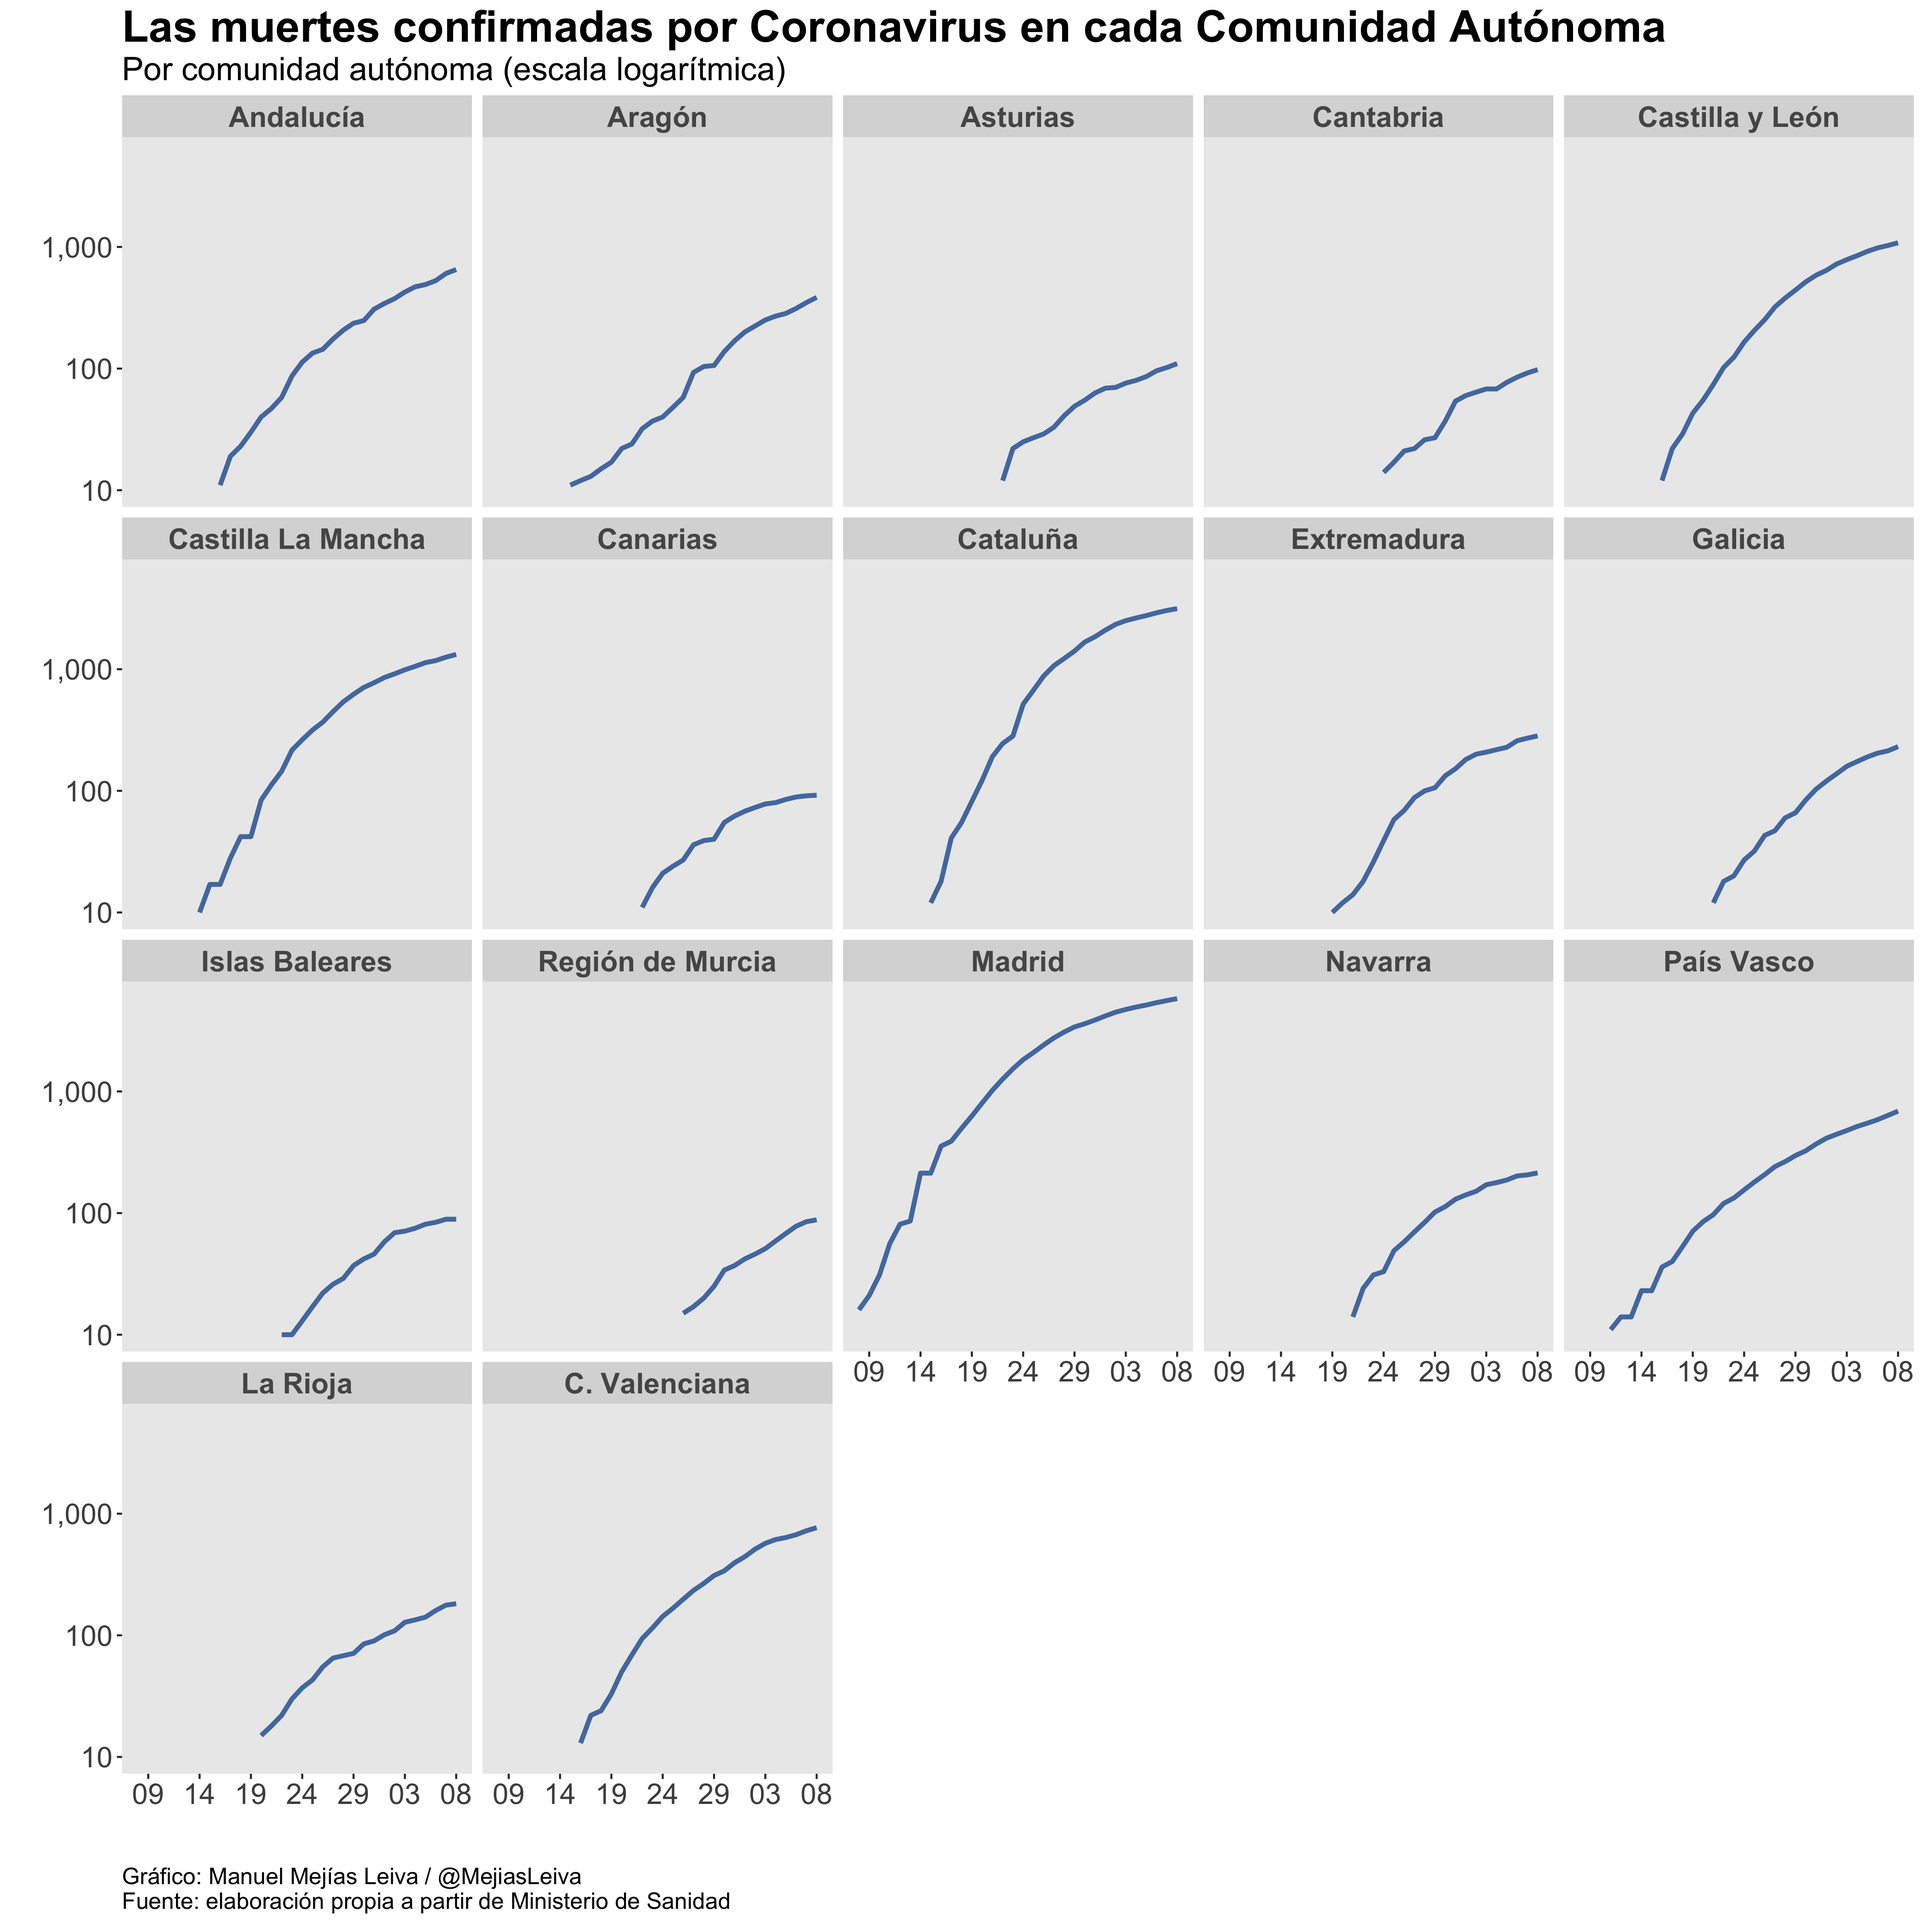
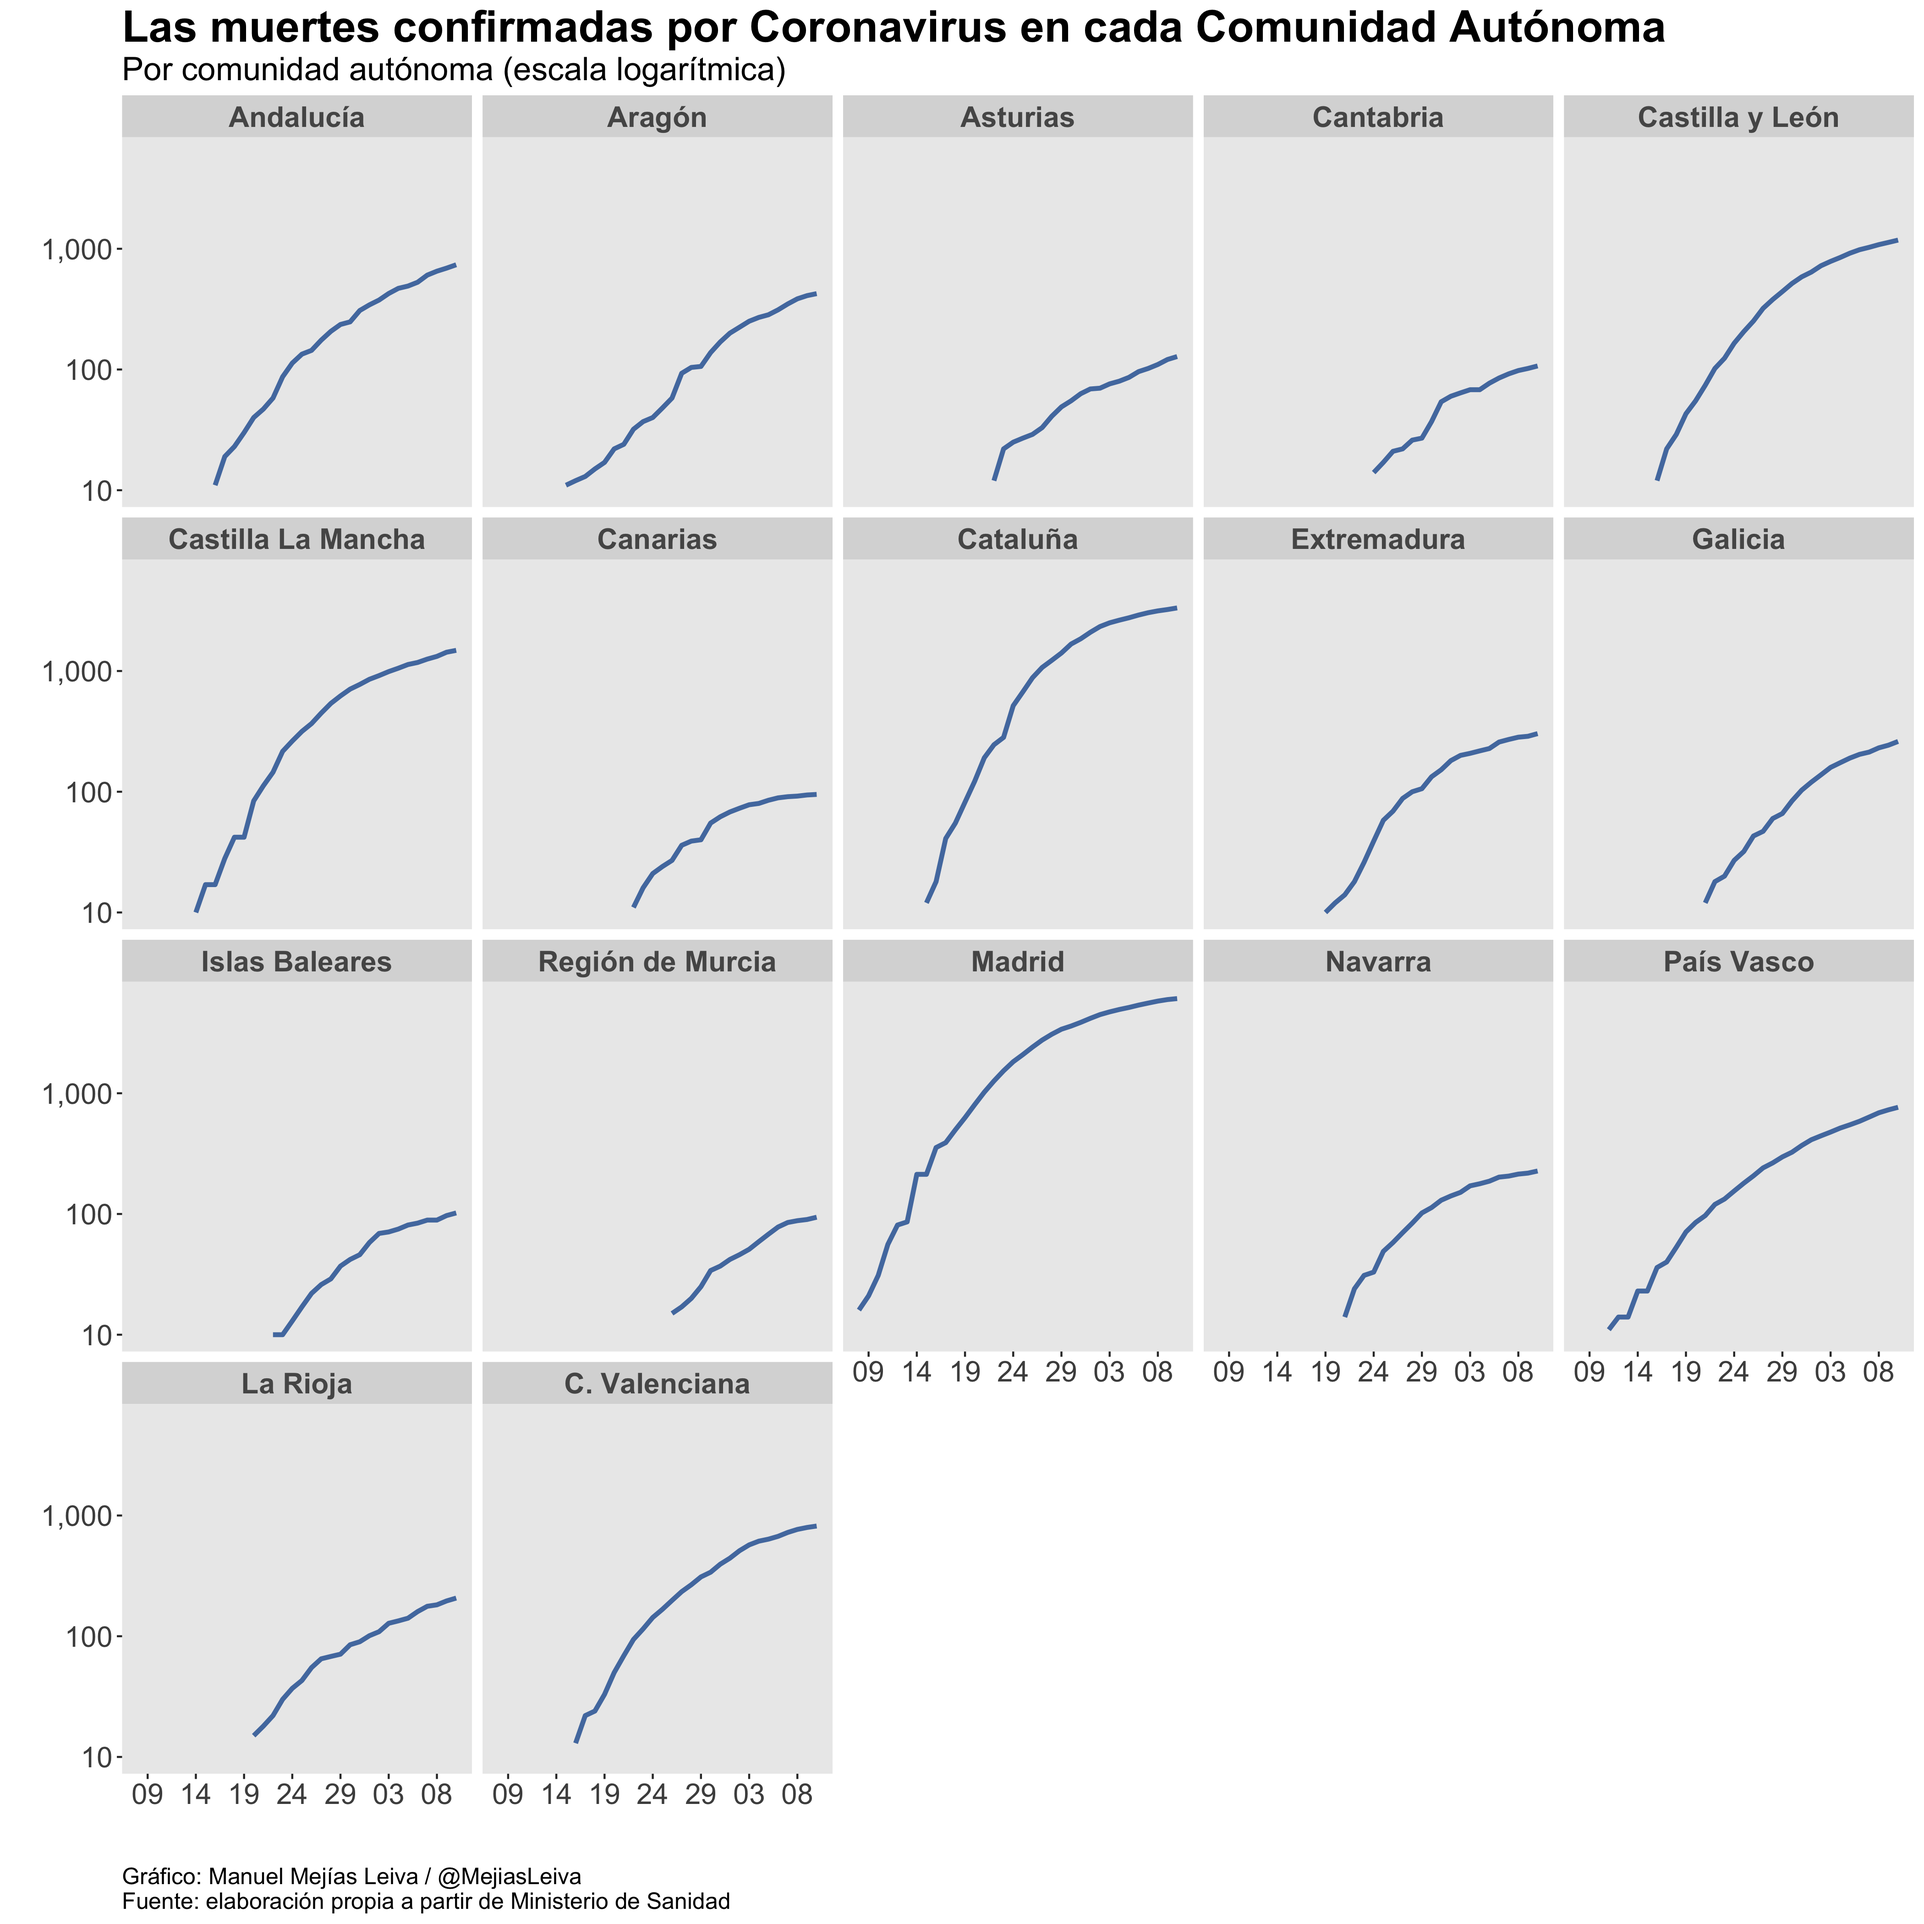
añadido nuevo artículo

diff --git a/_site/covid-19/Covid19.html b/_site/covid-19/Covid19.html
@@ -54,14 +54,14 @@
 <meta property="og:title" content="Evolución diaria de la pandemia de COVID-19 en España y en el mundo" />
 <meta name="author" content="Manuel Mejías Leiva" />
 <meta property="og:locale" content="en_US" />
-<meta name="description" content="Datos actualizados a 10/04/2020" />
-<meta property="og:description" content="Datos actualizados a 10/04/2020" />
+<meta name="description" content="Datos actualizados a 11/04/2020" />
+<meta property="og:description" content="Datos actualizados a 11/04/2020" />
 <meta property="og:site_name" content="Manuel Mejías" />
 <meta property="og:image" content="/img_covid/covid19.png" />
 <meta property="og:type" content="article" />
 <meta property="article:published_time" content="2020-04-07T00:00:00+02:00" />
 <script type="application/ld+json">
-{"url":"/covid-19/Covid19.html","author":{"@type":"Person","name":"Manuel Mejías Leiva"},"headline":"Evolución diaria de la pandemia de COVID-19 en España y en el mundo","datePublished":"2020-04-07T00:00:00+02:00","dateModified":"2020-04-07T00:00:00+02:00","description":"Datos actualizados a 10/04/2020","image":"/img_covid/covid19.png","mainEntityOfPage":{"@type":"WebPage","@id":"/covid-19/Covid19.html"},"@type":"BlogPosting","@context":"https://schema.org"}</script>
+{"image":"/img_covid/covid19.png","mainEntityOfPage":{"@type":"WebPage","@id":"/covid-19/Covid19.html"},"url":"/covid-19/Covid19.html","author":{"@type":"Person","name":"Manuel Mejías Leiva"},"description":"Datos actualizados a 11/04/2020","dateModified":"2020-04-07T00:00:00+02:00","datePublished":"2020-04-07T00:00:00+02:00","headline":"Evolución diaria de la pandemia de COVID-19 en España y en el mundo","@type":"BlogPosting","@context":"https://schema.org"}</script>
 <!-- End Jekyll SEO tag -->
 
 
@@ -127,7 +127,7 @@
 
 
 
-<p><strong><em>Datos actualizados a 10/04/2020</em></strong></p>
+<p><strong><em>Datos actualizados a 11/04/2020</em></strong></p>
 
 <ol>
   <li><a href="#1"><strong>Evolución diaria de la epidemia en España.</strong></a></li>
@@ -137,7 +137,6 @@
   <li><a href="#6"><strong>Número reproductivo (R).</strong></a></li>
   <li><a href="#7"><strong>Evolución del número de nuevos casos y fallecimientos por países.</strong></a></li>
   <li><a href="#8"><strong>Número de test Covid-19 por millón de habitantes.</strong></a></li>
-  <li><a href="#9"><strong>¿El virus no entiende de clases sociales?.</strong></a></li>
 </ol>
 
 <p align="justify">España está atravesando uno de los peores brotes de Coronavirus en el mundo. En este post se presentan datos relativos a la evolución de la pandemia tanto a nivel nacional, autonómico e internacional para tratar de clarificar algunos aspectos del ritmo de la pandemia. Los resultados a nivel nacional y autonómico se obtienen a partir de la información diaria que ofrece el <a target="_blank" href="https://covid19.isciii.es/">Ministerio de Sanidad, Consumo y Bienestar Social</a>. Para el análisis internacional, se parte de los datos que ofrece la <a target="_blank" href="https://coronavirus.jhu.edu/map.html">Johns Hopkins University</a>.</p>
@@ -163,12 +162,12 @@
             </div>
             <div class="tab-content" id="myTabContent">
             <div class="tab-pane fade show active p-3" id="one" role="tabpanel" aria-labelledby="one-tab">
-                <iframe title="Evoluci&oacute;n del n&uacute;mero de fallecidos  en Espa&ntilde;a" aria-label="Interactive line chart" id="datawrapper-chart-2DRIB" src="//datawrapper.dwcdn.net/2DRIB/9/" scrolling="no" frameborder="0" style="width: 0; min-width: 100% !important; border: none;" height="442"></iframe><script type="text/javascript">!function(){"use strict";window.addEventListener("message",function(a){if(void 0!==a.data["datawrapper-height"])for(var e in a.data["datawrapper-height"]){var t=document.getElementById("datawrapper-chart-"+e)||document.querySelector("iframe[src*='"+e+"']");t&&(t.style.height=a.data["datawrapper-height"][e]+"px")}})}();
-</script>  
+                <iframe title="Evoluci&oacute;n del n&uacute;mero de fallecidos  en Espa&ntilde;a" aria-label="Interactive line chart" id="datawrapper-chart-2DRIB" src="//datawrapper.dwcdn.net/2DRIB/10/" scrolling="no" frameborder="0" style="width: 0; min-width: 100% !important; border: none;" height="442"></iframe><script type="text/javascript">!function(){"use strict";window.addEventListener("message",function(a){if(void 0!==a.data["datawrapper-height"])for(var e in a.data["datawrapper-height"]){var t=document.getElementById("datawrapper-chart-"+e)||document.querySelector("iframe[src*='"+e+"']");t&&(t.style.height=a.data["datawrapper-height"][e]+"px")}})}();
+</script>
             </div>
             <div class="tab-pane fade p-3" id="two" role="tabpanel" aria-labelledby="two-tab">
-                 <iframe title="Evoluci&oacute;n del n&uacute;mero de casos en Espa&ntilde;a" aria-label="Interactive line chart" id="datawrapper-chart-JSCW4" src="//datawrapper.dwcdn.net/JSCW4/6/" scrolling="no" frameborder="0" style="width: 0; min-width: 100% !important; border: none;" height="400"></iframe><script type="text/javascript">!function(){"use strict";window.addEventListener("message",function(a){if(void 0!==a.data["datawrapper-height"])for(var e in a.data["datawrapper-height"]){var t=document.getElementById("datawrapper-chart-"+e)||document.querySelector("iframe[src*='"+e+"']");t&&(t.style.height=a.data["datawrapper-height"][e]+"px")}})}();
-</script>   
+                 <iframe title="Evoluci&oacute;n del n&uacute;mero de casos en Espa&ntilde;a" aria-label="Interactive line chart" id="datawrapper-chart-JSCW4" src="//datawrapper.dwcdn.net/JSCW4/7/" scrolling="no" frameborder="0" style="width: 0; min-width: 100% !important; border: none;" height="400"></iframe><script type="text/javascript">!function(){"use strict";window.addEventListener("message",function(a){if(void 0!==a.data["datawrapper-height"])for(var e in a.data["datawrapper-height"]){var t=document.getElementById("datawrapper-chart-"+e)||document.querySelector("iframe[src*='"+e+"']");t&&(t.style.height=a.data["datawrapper-height"][e]+"px")}})}();
+</script>
             </div>
             </div>
         </div>
@@ -332,14 +331,6 @@
 
 <p><img src="/assets/img/img_covid/p18.png" alt="Test por millón hab" /></p>
 
-<h3 id="el-virus-no-entiende-de-clases-sociales"><a name="8"></a>¿El virus no entiende de clases sociales?</h3>
-
-<p align="justify">Por último, presento datos sobre casos x100.000 habitantes por distrito de la ciudad de <a target="_blank" href="https://www.comunidad.madrid/servicios/salud 2019-nuevo-coronavirus">Madrid</a> comparado con algunas variables sociodemográficas. En primer lugar, los datos señalan que a mayor vulnerabilidad más casos notificados de Covid-19. En segundo lugar, parece observarse que a mayor porcentaje de población con estudios superiores en el distrito, menor son los casos reportados de Covid-19. En este caso puede jugar un papel fundamental el hecho de que aquellas personas con estudios de grado superior pueden realizar teletrabajo, evitando así una exposición al contagio. En tercer lugar, se encuentra que a mayor proporción de viviendas hacinadas, mayor es el número de casos Covid-19. Y, por último, también parece que a mayor precio del alquiler, menor es el número de casos reportados por Covid-19. </p>
-
-<p><img src="/assets/img/img_covid/p19.png" alt="Desigualdad en salud Madrid" /></p>
-
-<p align="justify">Estos datos son muy preliminares y tienen muchas limitaciones. Aunque son muy útiles porque aportan información sobre las desigualdades sociales en la salud que va a traer la epidemia de Coronavirus en España, y que muy posiblemente van a sufrir las clases sociales más vulnerables. Para concluir, los datos apuntan a que hay que abandonar el discurso de que el virus no entiende de estratos sociales.  </p>
-
 
 
 
@@ -358,7 +349,7 @@
 
   
   
-    lectura de 8 minuto
+    lectura de 7 minuto
   
 
 

diff --git a/_site/index.html b/_site/index.html
@@ -58,7 +58,7 @@
 <meta property="og:description" content="Sociólogo" />
 <meta property="og:site_name" content="Manuel Mejías" />
 <script type="application/ld+json">
-{"url":"/","author":{"@type":"Person","name":"Manuel Mejías Leiva"},"name":"Manuel Mejías","headline":"Home","description":"Sociólogo","@type":"WebSite","@context":"https://schema.org"}</script>
+{"url":"/","name":"Manuel Mejías","author":{"@type":"Person","name":"Manuel Mejías Leiva"},"description":"Sociólogo","headline":"Home","@type":"WebSite","@context":"https://schema.org"}</script>
 <!-- End Jekyll SEO tag -->
 
 
@@ -129,7 +129,7 @@
   </div>
   
   <p>
-    Datos actualizados a 10/04/2020
+    Datos actualizados a 11/04/2020
 
 
   Evolución diaria de la epidemia en España.
@@ -147,7 +147,7 @@
           2020 - <i class="fa fa-clock-o" aria-hidden="true"></i> 
   
   
-    lectura de 5 minuto
+    lectura de 4 minuto
   
 
 

diff --git a/_site/menu/articulos.html b/_site/menu/articulos.html
@@ -58,7 +58,7 @@
 <meta property="og:description" content="Sociólogo" />
 <meta property="og:site_name" content="Manuel Mejías" />
 <script type="application/ld+json">
-{"url":"/menu/articulos.html","author":{"@type":"Person","name":"Manuel Mejías Leiva"},"headline":"Artículos","description":"Sociólogo","@type":"WebPage","@context":"https://schema.org"}</script>
+{"url":"/menu/articulos.html","author":{"@type":"Person","name":"Manuel Mejías Leiva"},"description":"Sociólogo","headline":"Artículos","@type":"WebPage","@context":"https://schema.org"}</script>
 <!-- End Jekyll SEO tag -->
 
 

diff --git a/_site/404.html b/_site/404.html
@@ -58,7 +58,7 @@
 <meta property="og:description" content="Sociólogo" />
 <meta property="og:site_name" content="Manuel Mejías" />
 <script type="application/ld+json">
-{"url":"/404.html","author":{"@type":"Person","name":"Manuel Mejías Leiva"},"headline":"404: Page not found","description":"Sociólogo","@type":"WebPage","@context":"https://schema.org"}</script>
+{"url":"/404.html","author":{"@type":"Person","name":"Manuel Mejías Leiva"},"description":"Sociólogo","headline":"404: Page not found","@type":"WebPage","@context":"https://schema.org"}</script>
 <!-- End Jekyll SEO tag -->
 
 

diff --git a/_site/menu/contacto.html b/_site/menu/contacto.html
@@ -58,7 +58,7 @@
 <meta property="og:description" content="Sociólogo" />
 <meta property="og:site_name" content="Manuel Mejías" />
 <script type="application/ld+json">
-{"url":"/menu/contacto.html","author":{"@type":"Person","name":"Manuel Mejías Leiva"},"headline":"Contacto","description":"Sociólogo","@type":"WebPage","@context":"https://schema.org"}</script>
+{"url":"/menu/contacto.html","author":{"@type":"Person","name":"Manuel Mejías Leiva"},"description":"Sociólogo","headline":"Contacto","@type":"WebPage","@context":"https://schema.org"}</script>
 <!-- End Jekyll SEO tag -->
 
 

diff --git a/_site/menu/acerca.html b/_site/menu/acerca.html
@@ -58,7 +58,7 @@
 <meta property="og:description" content="Sociólogo" />
 <meta property="og:site_name" content="Manuel Mejías" />
 <script type="application/ld+json">
-{"url":"/menu/acerca.html","author":{"@type":"Person","name":"Manuel Mejías Leiva"},"headline":"Acerca","description":"Sociólogo","@type":"WebPage","@context":"https://schema.org"}</script>
+{"url":"/menu/acerca.html","author":{"@type":"Person","name":"Manuel Mejías Leiva"},"description":"Sociólogo","headline":"Acerca","@type":"WebPage","@context":"https://schema.org"}</script>
 <!-- End Jekyll SEO tag -->
 
 

diff --git a/_site/menu/CV.html b/_site/menu/CV.html
@@ -58,7 +58,7 @@
 <meta property="og:description" content="Sociólogo" />
 <meta property="og:site_name" content="Manuel Mejías" />
 <script type="application/ld+json">
-{"url":"/menu/CV.html","author":{"@type":"Person","name":"Manuel Mejías Leiva"},"headline":"CV","description":"Sociólogo","@type":"WebPage","@context":"https://schema.org"}</script>
+{"url":"/menu/CV.html","author":{"@type":"Person","name":"Manuel Mejías Leiva"},"description":"Sociólogo","headline":"CV","@type":"WebPage","@context":"https://schema.org"}</script>
 <!-- End Jekyll SEO tag -->
 
 
